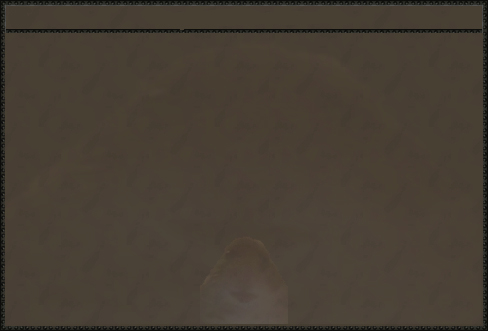
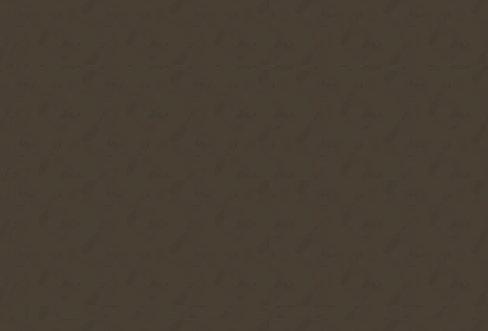
Adds hamstare to bankImage.ts Fix default background and repeating background Yarn lint import sorting

Changed region(s): [[0.0, 0.0, 1.0, 1.0]]

diff --git a/src/tasks/bankImage.ts b/src/tasks/bankImage.ts
@@ -19,7 +19,6 @@ import {
 	formatItemStackQuantity,
 	generateHexColorForCashStack,
 	itemNameFromID,
-	randomItemFromArray,
 	restoreCtx,
 	saveCtx,
 	stringMatches
@@ -55,6 +54,8 @@ export default class BankImageTask extends Task {
 	public borderCorner: Image | null = null;
 	public borderHorizontal: Image | null = null;
 	public borderVertical: Image | null = null;
+
+	public imageHamstare: Image | null = null;
 
 	public constructor(store: TaskStore, file: string[], directory: string) {
 		super(store, file, directory, {});
@@ -92,6 +93,9 @@ export default class BankImageTask extends Task {
 		);
 		this.borderVertical = await canvasImageFromBuffer(
 			fs.readFileSync('./resources/images/bank_border_v.png')
+		);
+		this.imageHamstare = await canvasImageFromBuffer(
+			fs.readFileSync('./resources/images/hamstare.png')
 		);
 	}
 
@@ -207,6 +211,24 @@ export default class BankImageTask extends Task {
 		ctx.restore();
 	}
 
+	addsHamstare(canvas: Canvas, wide = false) {
+		const ctx = canvas.getContext('2d');
+		ctx.save();
+		ctx.globalAlpha = 0.15;
+		ctx.translate(
+			wide ? this.borderVertical?.width! : canvas.width / 2 - this.imageHamstare?.width! / 2,
+			canvas.height - this.imageHamstare?.height! - this.borderHorizontal?.height!
+		);
+		ctx.drawImage(
+			this.imageHamstare,
+			0,
+			0,
+			wide ? canvas.width - this.borderVertical?.width! * 2 : this.imageHamstare?.width!,
+			this.imageHamstare?.height!
+		);
+		ctx.restore();
+	}
+
 	async generateBankImage(
 		itemLoot: Bank,
 		title = '',
@@ -316,6 +338,10 @@ export default class BankImageTask extends Task {
 		if (noBorder !== 1) {
 			this.drawBorder(canvas);
 		}
+
+		// Adds hamstare
+		this.addsHamstare(canvas, Boolean(wide));
+
 		if (showValue) {
 			title += ` (Value: ${partial ? `${toKMB(partialValue)} of ` : ''}${toKMB(totalValue)})`;
 		}
@@ -342,10 +368,7 @@ export default class BankImageTask extends Task {
 			xLoc = Math.floor(
 				spacer + (i % itemsPerRow) * ((canvas.width - 40) / itemsPerRow) + distanceFromSide
 			);
-			let [id, quantity, value] = items[i];
-			if (user && user.settings.get('troll')) {
-				id = randomItemFromArray([4012, 2130, 7147]);
-			}
+			const [id, quantity, value] = items[i];
 			const item = await this.getItemImage(id);
 			if (!item) {
 				this.client.emit(Events.Warn, `Item with ID[${id}] has no item image.`);
@@ -553,6 +576,7 @@ export default class BankImageTask extends Task {
 		}
 		// Draw border
 		this.drawBorder(canvas);
+		this.addsHamstare(canvas);
 
 		return canvas.toBuffer();
 	}

diff --git a/src/tasks/minions/raidsActivity.ts b/src/tasks/minions/raidsActivity.ts
@@ -1,8 +1,9 @@
 import { Task } from 'klasa';
-import { RaidsActivityTaskOptions } from '../../lib/types/minions';
-import { channelIsSendable } from '../../lib/util/channelIsSendable';
-import { noOp, formatDuration } from '../../lib/util';
 import ChambersOfXeric from 'oldschooljs/dist/simulation/minigames/ChambersOfXeric';
+
+import { RaidsActivityTaskOptions } from '../../lib/types/minions';
+import { formatDuration, noOp } from '../../lib/util';
+import { channelIsSendable } from '../../lib/util/channelIsSendable';
 import createReadableItemListFromBank from '../../lib/util/createReadableItemListFromTuple';
 import filterBankFromArrayOfItems from '../../lib/util/filterBankFromArrayOfItems';
 

diff --git a/src/commands/bso/givebox.ts b/src/commands/bso/givebox.ts
@@ -1,10 +1,10 @@
 import { CommandStore, KlasaMessage, KlasaUser } from 'klasa';
 
 import { BotCommand } from '../../lib/BotCommand';
-import { Time, PerkTier } from '../../lib/constants';
-import { formatDuration, roll, itemID } from '../../lib/util';
-import { UserSettings } from '../../lib/settings/types/UserSettings';
+import { PerkTier, Time } from '../../lib/constants';
 import { getRandomMysteryBox } from '../../lib/openables';
+import { UserSettings } from '../../lib/settings/types/UserSettings';
+import { formatDuration, itemID, roll } from '../../lib/util';
 
 export default class extends BotCommand {
 	public constructor(store: CommandStore, file: string[], directory: string) {

diff --git a/src/commands/bso/spawnbox.ts b/src/commands/bso/spawnbox.ts
@@ -1,12 +1,12 @@
+import { MessageEmbed } from 'discord.js';
 import { CommandStore, KlasaMessage } from 'klasa';
 import { Items } from 'oldschooljs';
 import { Item } from 'oldschooljs/dist/meta/types';
-import { MessageEmbed } from 'discord.js';
 
 import { BotCommand } from '../../lib/BotCommand';
 import { Color, PerkTier } from '../../lib/constants';
-import { stringMatches, roll, itemID } from '../../lib/util';
 import { getRandomMysteryBox } from '../../lib/openables';
+import { itemID, roll, stringMatches } from '../../lib/util';
 
 export default class extends BotCommand {
 	public constructor(store: CommandStore, file: string[], directory: string) {

diff --git a/src/monitors/mboxes.ts b/src/monitors/mboxes.ts
@@ -1,10 +1,10 @@
-import { Monitor, MonitorStore, KlasaMessage } from 'klasa';
-
-import { SupportServer, Color, Time } from '../lib/constants';
-import { stringMatches, resolveNameBank, roll } from '../lib/util';
 import { MessageEmbed } from 'discord.js';
+import { KlasaMessage, Monitor, MonitorStore } from 'klasa';
 import { Items } from 'oldschooljs';
 import { Item } from 'oldschooljs/dist/meta/types';
+
+import { Color, SupportServer, Time } from '../lib/constants';
+import { resolveNameBank, roll, stringMatches } from '../lib/util';
 
 export default class extends Monitor {
 	public lastDrop = 0;

diff --git a/src/commands/Minion/sell.ts b/src/commands/Minion/sell.ts
@@ -5,8 +5,8 @@ import { Item } from 'oldschooljs/dist/meta/types';
 import { BotCommand } from '../../lib/BotCommand';
 import { ClientSettings } from '../../lib/settings/types/ClientSettings';
 import { UserSettings } from '../../lib/settings/types/UserSettings';
-import itemIsTradeable from '../../lib/util/itemIsTradeable';
 import { itemID } from '../../lib/util';
+import itemIsTradeable from '../../lib/util/itemIsTradeable';
 
 const options = {
 	max: 1,

diff --git a/src/lib/simulation/Corp.ts b/src/lib/simulation/Corp.ts
@@ -1,7 +1,6 @@
-import LootTable from 'oldschooljs/dist/structures/LootTable';
-import { GemTable } from 'oldschooljs/dist/simulation/subtables/RareDropTable';
-
 import { Monsters } from 'oldschooljs';
+import { GemTable } from 'oldschooljs/dist/simulation/subtables/RareDropTable';
+import LootTable from 'oldschooljs/dist/structures/LootTable';
 
 const SigilTable = new LootTable()
 	.add('Spectral sigil', 1, 3)

diff --git a/src/inhibitors/troll.ts b/src/inhibitors/troll.ts
@@ -1,7 +1,7 @@
 import { Inhibitor, KlasaMessage } from 'klasa';
 
-import { roll } from '../util';
 import { itemID } from '../lib/util';
+import { roll } from '../util';
 
 export default class extends Inhibitor {
 	public async run(msg: KlasaMessage) {
